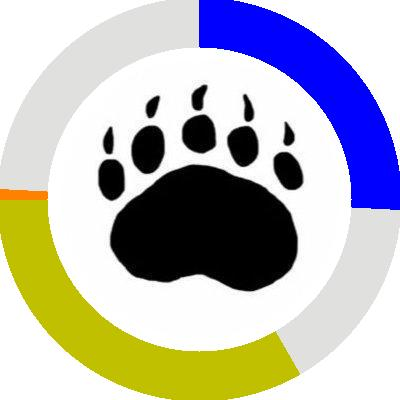
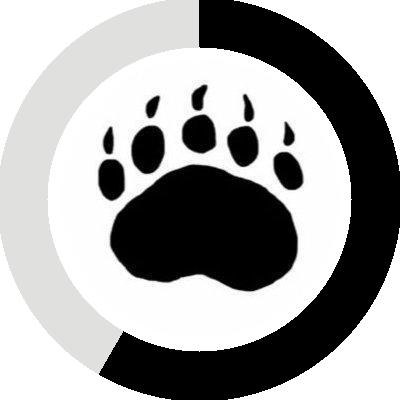
add precise percentage

Changed region(s): [[0.0, 0.0, 1.0, 1.0]]

diff --git a/update_icon.py b/update_icon.py
@@ -60,7 +60,6 @@ def calc_percent():
         diff_vec[i] = min(diff_vec[i], goal_diff_vec[i])
     percent = sum(diff_vec) / sum(goal_diff_vec)
     return percent
-
 #========================make_icon=================
 
 def calc_deg(x, y):
@@ -99,19 +98,6 @@ def make_partiall_circle(sx, sy, inner_d, outer_d, min_percent, max_percent, col
                 if min_percent <= calc_deg(x - sx, y - sy) / 360 <= max_percent:
                     img.putpixel((x, y), color)
 
-def make_bow(sx, sy, d, percent, color, img):
-    width, height = img.size
-    H = 2 * d
-    for y in range(height):
-        h_now = (sy + d) - y
-        for x in range(width):
-            temp = img.getpixel((x, y))
-            if sum(temp) <= 500:
-                continue
-            if (x - sx) ** 2 + (y - sy) ** 2 <= d ** 2:
-                if h_now / H <= percent:
-                    img.putpixel((x, y), color)
-
 #========================update_icon=================
 
 load_dotenv()
@@ -125,54 +111,20 @@ auth = tweepy.OAuthHandler(CK, CS)
 auth.set_access_token(AT, AS)
 api = tweepy.API(auth)
 
-def pie_chart_colorful():
+def pie_chart():
     img = Image.open('original_icon.jpg')
     width, height = img.size
-    diff_vec = make_diff_vec()
-    goal_diff_vec = load_goal()
-    all = 0
-    for i in range(len(goal_diff_vec)):
-        all += goal_diff_vec[i]
-    rgb = [(129, 129, 129), (129, 63, 0), (0, 129, 0), (0, 192, 192), (0, 0, 255), (192, 192, 0), (255, 129, 0), (255, 0, 0), (225, 82, 15), (192, 192, 192), (255, 195, 10)]
-    # for i in range(len(rgb)):
-    #     t = list(rgb[i])
-    #     for j in range(3):
-    #         t[j] = t[j]
-    #     rgb[i] = tuple(t)
-    #gray
-    make_partiall_circle(width // 2 - 1, height // 2 - 1, 152, 202, 0 / 100, 0 / 100, (224, 224, 222), img)
-    for i in range(len(diff_vec)):
-        diff_vec[i] = min(diff_vec[i], goal_diff_vec[i])
-    #black
-    make_partiall_circle(width // 2 - 1, height // 2 - 1, 152, 202, 0 / 100, sum(diff_vec) / sum(goal_diff_vec), (0, 0, 0), img)
-    now = sum(diff_vec)
-    for i in range(len(diff_vec)):
-        now_end = now + (goal_diff_vec[i] - diff_vec[i])
-        make_partiall_circle(width // 2 - 1, height // 2 - 1, 152, 202, now / sum(goal_diff_vec), now_end / sum(goal_diff_vec), rgb[i], img)
-        now = now_end
-    filename = "created_icon.jpg"
-    img.save(filename)
-    img.show()
-
-def pie_chart_partiall_colorful():
-    img = Image.open('original_icon.jpg')
-    width, height = img.size
-    diff_vec = make_diff_vec()
-    goal_diff_vec = load_goal()
-    all = 0
-    for i in range(len(goal_diff_vec)):
-        all += goal_diff_vec[i]
-    rgb = [(129, 129, 129), (129, 63, 0), (0, 129, 0), (0, 192, 192), (0, 0, 255), (192, 192, 0), (255, 129, 0), (255, 0, 0), (225, 82, 15), (192, 192, 192), (255, 195, 10)]
-    make_partiall_circle(width // 2 - 1, height // 2 - 1, 152, 202, 0 / 100, 100 / 100, (224, 224, 222), img)
-    for i in range(len(diff_vec)):
-        diff_vec[i] = min(diff_vec[i], goal_diff_vec[i])
-    now = 0
-    for i in range(len(diff_vec)):
-        now_end = now + diff_vec[i] + 0.1
-        make_partiall_circle(width // 2 - 1, height // 2 - 1, 152, 202, now / sum(goal_diff_vec), now_end / sum(goal_diff_vec), rgb[i], img)
-        now += goal_diff_vec[i]
-    filename = "created_icon.jpg"
-    img.save(filename)
-    img.show()
-
-pie_chart_partiall_colorful()
+    make_circle(width // 2 - 1, height // 2 - 1, 152, 202, 100 / 100, (224 ,224, 222), img)
+    percent = calc_percent()
+    file_path = "last_percent.txt"
+    with open(file_path) as f:
+        s = f.read()
+        if s == str(percent):
+            exit()
+    print("update icon")
+    with open(file_path, mode='w') as f:
+        f.write(str(percent))
+    make_partiall_circle(width // 2 - 1, height // 2 - 1, 152, 202, 0 / 100, percent, (0, 0, 0), img)
+    img.save('created_icon.jpg')
+pie_chart()
+api.update_profile_image("created_icon.jpg")
